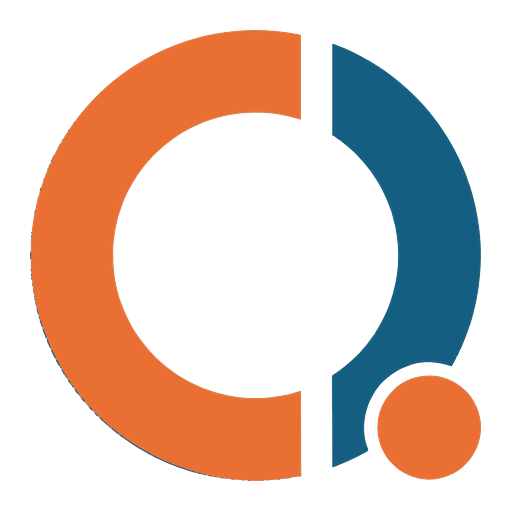
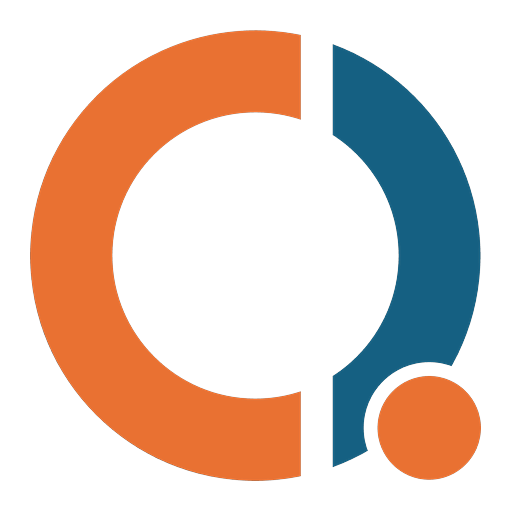
Every asset from a transparent source, and the keying goes
The wordmark and the brandmark now have transparent exports too, so all
three generated assets come from artwork that already has an alpha
channel — masks running the full 0-255, about 70% of each image clear,
every corner at zero. Generating one is now: pull the raster, trim the
clear margin, downscale, quantise.

That retires the keying step. It existed because the first round of files
had a white background baked in, and it worked — key pure white at full
resolution, where the grey "2" at #bfbfbf is nowhere near the threshold,
and only then downscale so the resample rebuilds the edge against
transparency rather than against the white behind it. brand/README.md
keeps the reasoning even though the code is gone: keying after a
downscale leaves a light fringe around every letter, and that is not
obvious enough to rediscover twice.

The favicon and the app icons are rebuilt from the transparent brandmark,
so the counter inside the Q is now actually clear rather than white —
which is the difference between a mark that sits on a dark browser tab
and one that carries a white tile around it.

The superseded originals stay in brand/ rather than being deleted. One of
them is the file with QUIALITY in it, and a named, explained copy is the
surest way nobody exports from it again.

Claude-Session: https://claude.ai/code/session_01BNRVpTd5yTbduqRa9kp21u

diff --git a/brand/README.md b/brand/README.md
@@ -1,67 +1,58 @@
 # Brand source artwork
 
 The files supplied by the company, kept here rather than in `public/` because
-they are **source**, not assets: nothing links to them and serving half a
-megabyte nobody fetches is worse than keeping it out of the build. The files the
-app actually uses are generated from these and live in `public/`.
+they are **source**, not assets: nothing links to them and serving three-quarters
+of a megabyte nobody fetches is worse than keeping it out of the build. The files
+the app actually uses are generated from these and live in `public/`.
 
-## What these files actually are
+## What the app uses, and what it is built from
 
-They are named `.svg` and they are not vector art. Each one is an SVG wrapper
-around **two embedded PNGs** — an RGB image and a greyscale alpha mask — at very
-high resolution:
+| Generated | Used by | Built from |
+| --- | --- | --- |
+| `public/qc2go-lockup.png` | The sign-in, set-password and no-company screens | `Logo with tagline no background.svg` |
+| `public/qc2go-logo.png` | The header, once signed in | `qc2go transparent.png` |
+| `public/favicon-32.png`, `apple-touch-icon.png`, `icon-192.png`, `icon-512.png` | The browser tab, the home-screen icon, the PWA manifest | `Favicon or brandmark.svg` |
+
+All three sources have **real transparency** — masks running the full 0–255,
+around 70% of each image fully clear, every corner at alpha 0. Generating an
+asset is now: pull the raster (and its mask, where the file is a wrapper), trim
+the clear margin, downscale with Lanczos, quantise to 64 colours. The last step
+matters more than it sounds: the artwork is four flat colours, and quantising
+takes the wordmark from 60 KB to under 10 KB.
+
+## These `.svg` files are not vector art
+
+Each one is an SVG wrapper around **two embedded PNGs** — an RGB image and a
+greyscale mask — at high resolution:
 
 | File | Wrapper viewBox | Embedded raster |
 | --- | --- | --- |
+| `Favicon or brandmark.svg` | 1150 × 1006 | 1534 × 1342 |
+| `Logo with tagline no background.svg` | 1416 × 492 | 1888 × 656 |
 | `QC2GO.svg` | 770 × 257 | 3840 × 1282 |
 | `QC2GO Tagline.svg` | 838 × 278 | 3840 × 1276 |
 | `QC2GO Brandmark.svg` | 1150 × 1006 | 2470 × 2160 |
 
-`QC2GO Tagline Update.png` is a plain 1888 × 656 PNG rather than a wrapper —
-the corrected tagline, on white.
+So a wordmark costs 216 KB, and the artwork does not scale the way an `.svg`
+extension appears to promise — enlarge it far enough and it is a photograph of a
+logo. Everything generated from them is a PNG, which is the honest form of it.
 
-`Logo with tagline no background.svg` is the same lockup **with real
-transparency**: still a raster in a wrapper, but its mask runs the full 0–255
-and 70% of the image is fully transparent. It is what `public/qc2go-lockup.png`
-is built from, and nothing has to be keyed out of it.
+## The superseded originals
 
-That is why a wordmark costs 216 KB. It also means the artwork does not scale
-the way an SVG appears to promise — enlarge it far enough and it is a photograph
-of a logo.
+`QC2GO.svg`, `QC2GO Brandmark.svg`, `QC2GO Tagline.svg` and
+`QC2GO Tagline Update.png` are the first round, and **all four have a white
+background baked in** — alpha never falling below 64, every corner white. Dropped
+onto a screen as supplied, each arrives as a white rectangle.
 
-**The mask is not a cut-out.** Its alpha never falls below 64 and no pixel is
-fully transparent, so the white behind the letters is part of the image. Placed
-on the sign-in screen as supplied, the logo arrives as a white rectangle on
-navy.
+They were usable, by keying pure white to transparent at full resolution and
+only then downscaling, so the resample rebuilt the anti-aliased edge against
+transparency rather than against the white behind it. That code is gone now that
+every asset has a transparent source. It is recorded here because the reasoning
+is not obvious and would otherwise have to be rediscovered: keying *after* a
+downscale leaves a light fringe around every letter, at every size.
 
-## What is generated from them
+Two reasons they are kept rather than deleted:
 
-`public/qc2go-lockup.png` (the wordmark with its tagline, used on sign-in) comes
-straight out of `Logo with tagline no background.svg`: pull the raster and its
-mask out of the wrapper, trim, downscale, quantise. No keying — the file is
-already transparent.
-
-`public/qc2go-logo.png` (the wordmark alone, used in the header) and the icon
-set still come from `QC2GO.svg` and `QC2GO Brandmark.svg`, which are not, by:
-
-1. pulling the RGB raster out of the wrapper,
-2. keying pure white (all channels ≥ 250) to transparent **at full
-   resolution** — the grey "2" is `#bfbfbf` and nowhere near that threshold, so
-   it survives untouched,
-3. downscaling with Lanczos, which rebuilds the anti-aliased edge against
-   transparency rather than against the white that was there before, and
-4. quantising to a 64-colour palette, which takes the wordmark from 60 KB to
-   under 10 KB because the artwork is four flat colours.
-
-Doing the key *before* the downscale is what avoids a light fringe around every
-letter. Keying after would leave one, at every size.
-
-## Two things to fix at source
-
-- **`QC2GO Tagline.svg` has a typo** — it reads **QUIALITY IN MOTION**. It is
-  superseded by `QC2GO Tagline Update.png`, which is correct and is what
-  `public/qc2go-lockup.png` is built from. The original is kept only so nobody
-  re-exports from it by mistake.
-- **The wordmark and brandmark still have no transparent export.** Only the
-  tagline lockup has one, so only it skips the keying step. The same export from
-  `QC2GO.svg` and `QC2GO Brandmark.svg` would let the rest of it go too.
+- **`QC2GO Tagline.svg` has a typo** — it reads **QUIALITY IN MOTION**. Keeping
+  it named and explained is the surest way nobody re-exports from it by mistake.
+- They are the only copies at 3840 px. Nothing needs that today.
